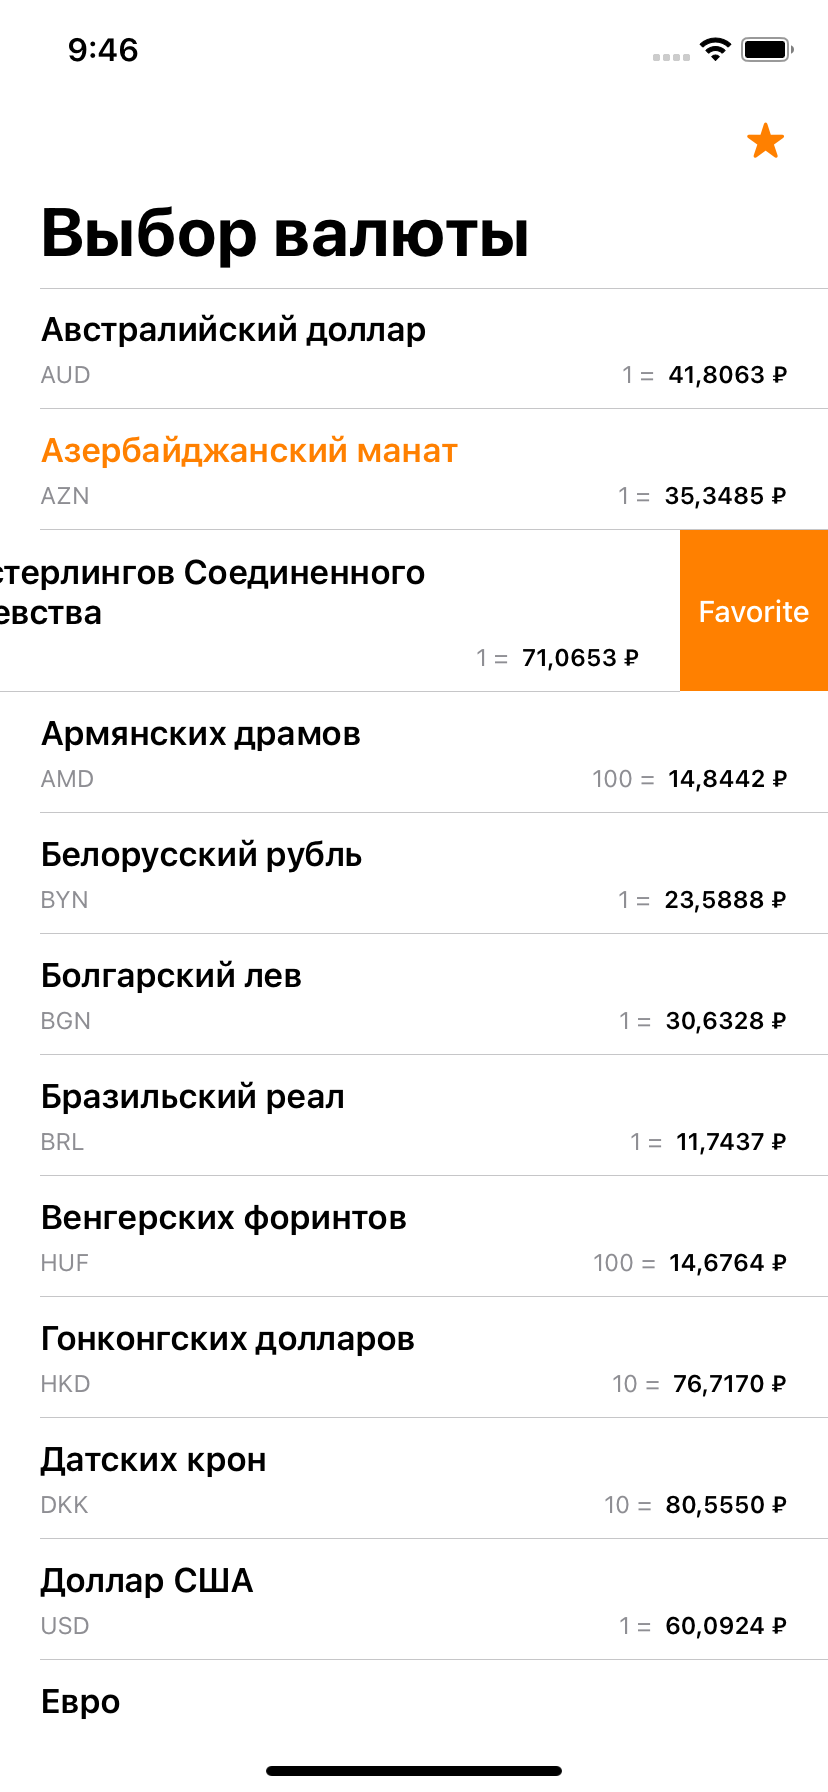
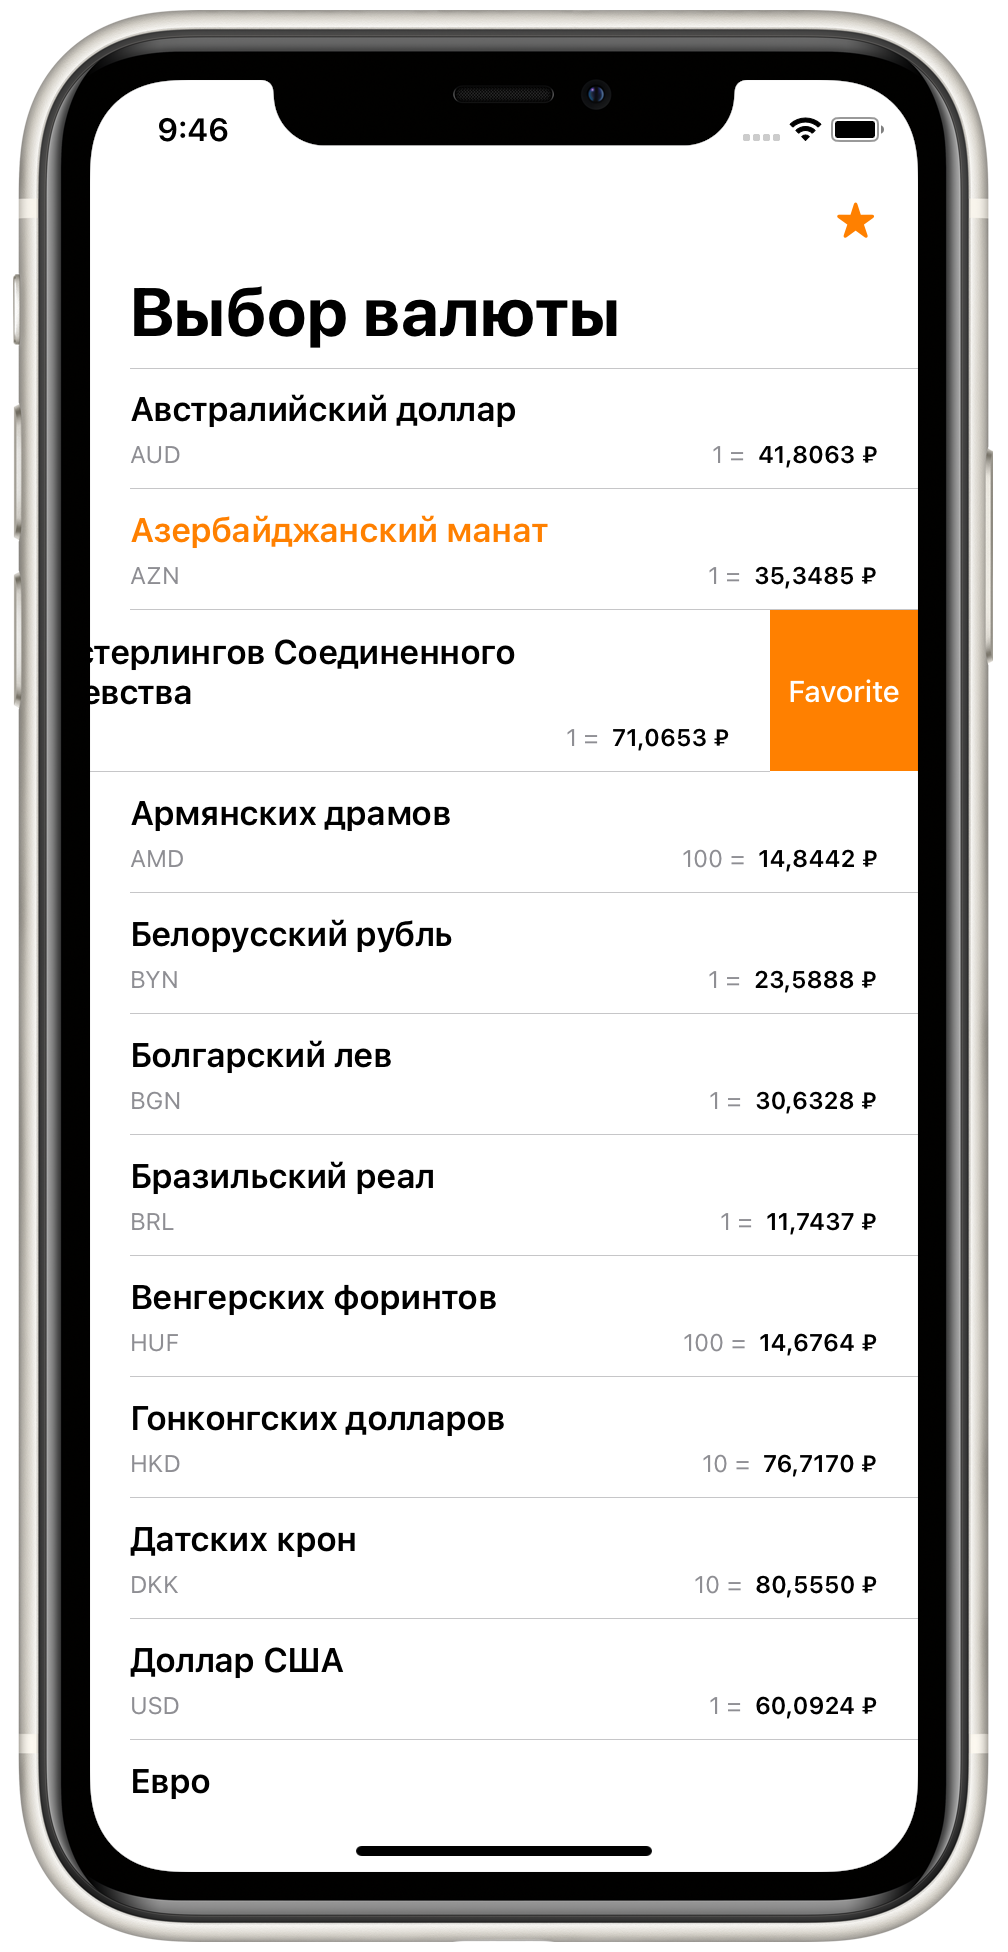
chore: Обновил скрины

Changed region(s): [[0.0, 0.0, 1.0, 1.0], [0.6039, 0.3438, 0.7246, 0.4062], [0.6944, 0.4375, 0.7246, 0.4688]]

diff --git a/README.md b/README.md
@@ -39,8 +39,8 @@
 ## Installations
 Clone and run project in Xcode 13 or newer
 
+## Screenshots
+<img src="https://github.com/ZyFun/CurrencyConverter/blob/main/Screenshots/Screenshot000.png" width="252" height="488" /> <img src="https://github.com/ZyFun/CurrencyConverter/blob/main/Screenshots/Screenshot001.png" width="252" height="488" /> <img src="https://github.com/ZyFun/CurrencyConverter/blob/main/Screenshots/Screenshot002.png" width="252" height="488" /> <img src="https://github.com/ZyFun/CurrencyConverter/blob/main/Screenshots/Screenshot003.png" width="252" height="488" />
+
 ## Demo
 <img src="https://github.com/ZyFun/CurrencyConverter/blob/main/Demo/Demo001.gif" width="300" height="650" /> <img src="https://github.com/ZyFun/CurrencyConverter/blob/main/Demo/Demo000.gif" width="300" height="650" />
-
-## Screenshots
-<img src="https://github.com/ZyFun/CurrencyConverter/blob/main/Screenshots/Screenshot000.png" width="248" height="538" /> <img src="https://github.com/ZyFun/CurrencyConverter/blob/main/Screenshots/Screenshot001.png" width="248" height="538" /> <img src="https://github.com/ZyFun/CurrencyConverter/blob/main/Screenshots/Screenshot002.png" width="248" height="538" /> <img src="https://github.com/ZyFun/CurrencyConverter/blob/main/Screenshots/Screenshot003.png" width="248" height="538" />
